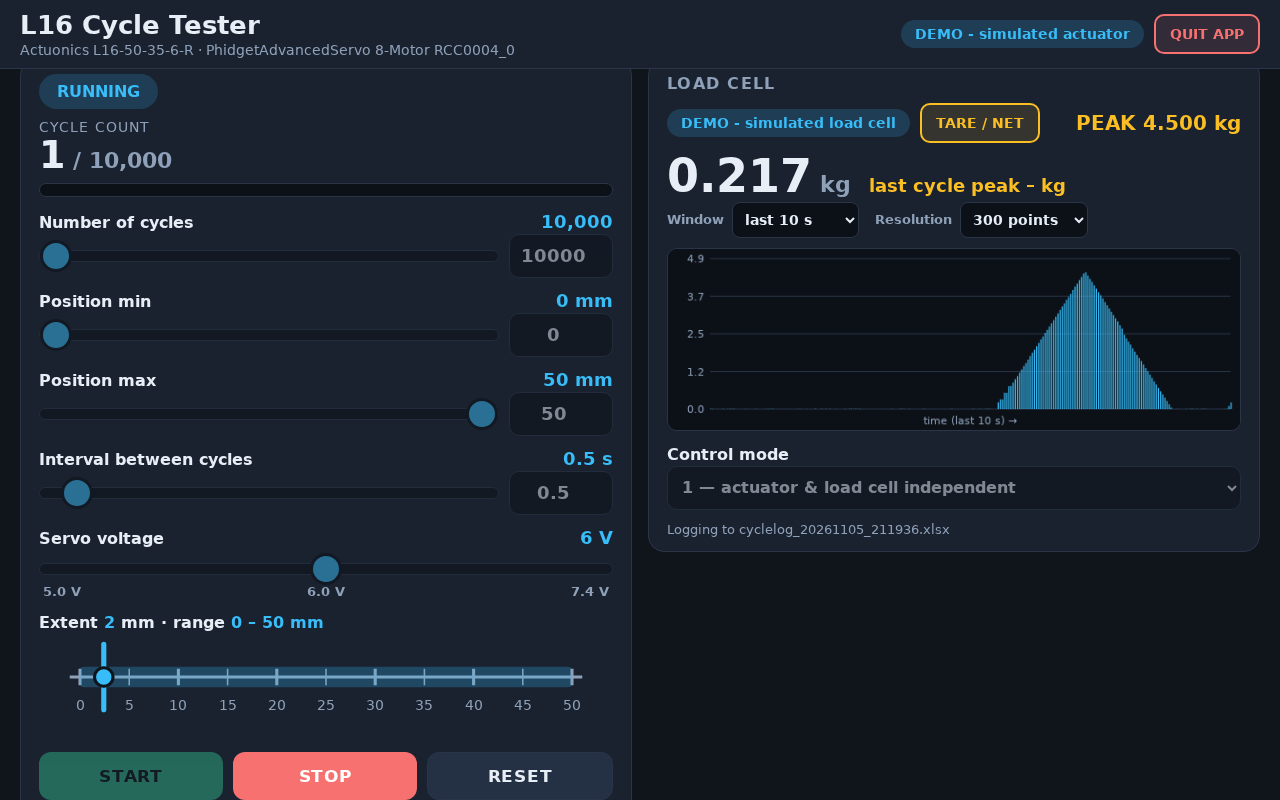
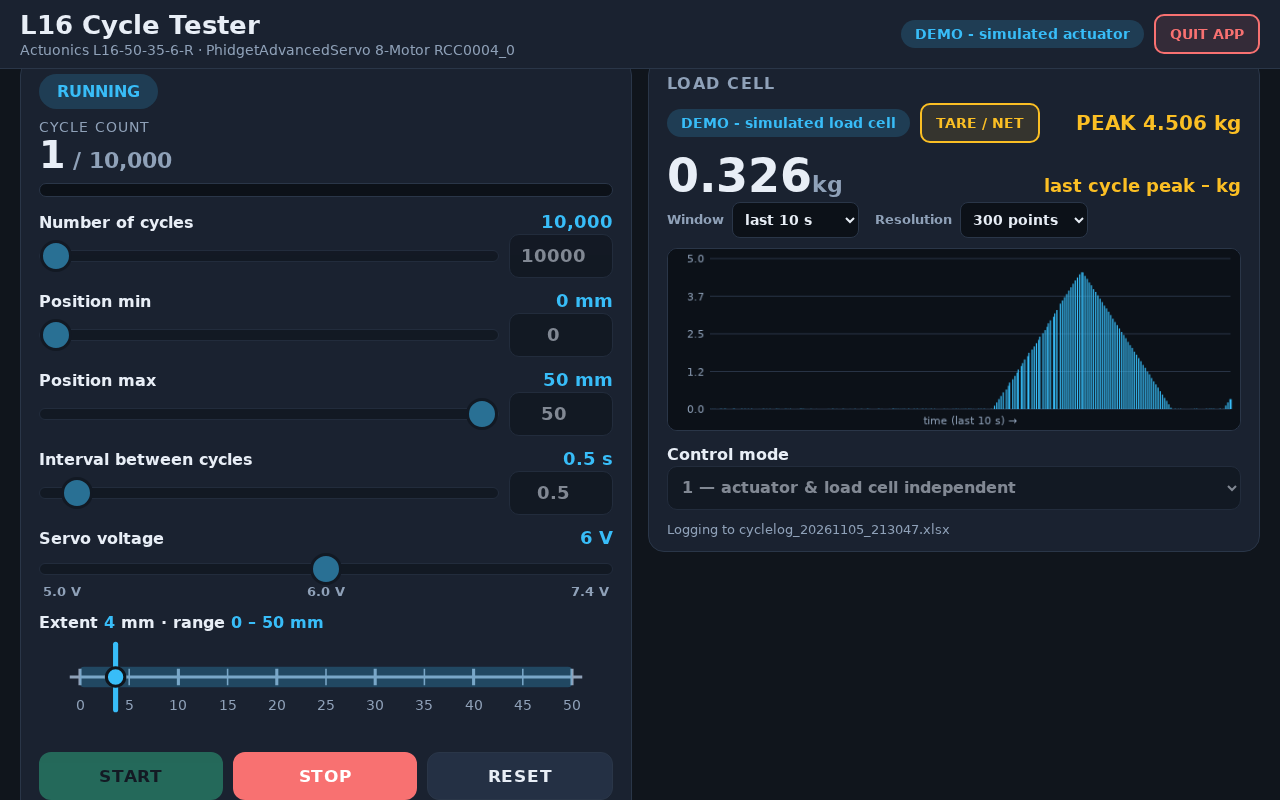
Closed-loop load control: halt mid-move when goal reached; DSCUSB polled ~100Hz with DP=6 and hardware PEAK tracking (RSPT reset at run start); last-cycle peak pinned to right edge of load row

diff --git a/static/style.css b/static/style.css
@@ -132,9 +132,9 @@ main {
   padding: 0 8px;
 }
 
-.load-value { font-size: 46px; font-weight: 800; font-variant-numeric: tabular-nums; line-height: 1.1; }
+.load-value { display: flex; align-items: baseline; font-size: 46px; font-weight: 800; font-variant-numeric: tabular-nums; line-height: 1.1; }
 .load-value .unit { font-size: 22px; color: var(--muted); font-weight: 600; }
-.prev-peak { margin-left: 18px; font-size: 18px; font-weight: 700; color: var(--warn); }
+.prev-peak { margin-left: auto; padding-left: 18px; font-size: 18px; font-weight: 700; color: var(--warn); white-space: nowrap; }
 .prev-peak span { font-variant-numeric: tabular-nums; }
 
 #load-chart { width: 100%; height: auto; display: block; background: #0c1118; border: 1px solid var(--panel-edge); border-radius: 10px; margin: 10px 0 14px; }

diff --git a/loadcell.py b/loadcell.py
@@ -5,8 +5,8 @@ from collections import deque
 
 READ_CMD = b"!001:SYS?\r"
 BAUD = 115200
-POLL_HZ = 50.0
-HIST_MAX = 90000
+POLL_HZ = 100.0
+HIST_MAX = 180000
 WINDOW_MAX_S = 1800.0
 POINTS_MAX = 1200
 
@@ -31,6 +31,12 @@ class LoadCellBase:
     def history_window(self, window_s=10.0, max_points=300):
         raise NotImplementedError
 
+    def reset_peak(self):
+        pass
+
+    def module_peak_kg(self):
+        return None
+
     def tare(self):
         raise NotImplementedError
 
@@ -43,6 +49,7 @@ class SimulatedLoadCell(LoadCellBase):
         self._lock = threading.Lock()
         self._gross = 0.0
         self._tare = 0.0
+        self._alltime_peak = 0.0
         self._hist = deque(maxlen=HIST_MAX)
         self._stop = threading.Event()
         self._thread = None
@@ -64,7 +71,10 @@ class SimulatedLoadCell(LoadCellBase):
             gross = max(0.0, 0.09 * pos) + random.uniform(-0.01, 0.01)
             with self._lock:
                 self._gross = gross
-                self._hist.append((time.monotonic(), gross - self._tare))
+                net = gross - self._tare
+                if net > self._alltime_peak:
+                    self._alltime_peak = net
+                self._hist.append((time.monotonic(), net))
             time.sleep(1.0 / POLL_HZ)
 
     def latest_kg(self):
@@ -85,6 +95,14 @@ class SimulatedLoadCell(LoadCellBase):
             self._tare = self._gross
         return True
 
+    def reset_peak(self):
+        with self._lock:
+            self._alltime_peak = self._gross - self._tare
+
+    def module_peak_kg(self):
+        with self._lock:
+            return self._alltime_peak
+
 
 class DscUsbLoadCell(LoadCellBase):
     def __init__(self, port=None):
@@ -93,9 +111,21 @@ class DscUsbLoadCell(LoadCellBase):
         self._lock = threading.Lock()
         self._gross = 0.0
         self._tare = 0.0
+        self._mod_peak = None
         self._hist = deque(maxlen=HIST_MAX)
         self._stop = threading.Event()
         self._thread = None
+
+    def _cmd(self, payload):
+        self._ser.reset_input_buffer()
+        self._ser.write(payload)
+        line = self._ser.read_until(b"\r", 64).strip()
+        if not line or line == b"?":
+            return None
+        try:
+            return float(line)
+        except ValueError:
+            return None
 
     def _probe(self, device):
         import serial
@@ -132,7 +162,11 @@ class DscUsbLoadCell(LoadCellBase):
                 "no DSCUSB found on any COM port - install the DSC Toolkit / FTDI drivers "
                 "(SW-DSCUSBDRV) so the DSCUSB appears as a virtual COM port, or pass --loadcell-port COMx"
             )
-        self._ser = serial.Serial(port, BAUD, timeout=0.2)
+        self._ser = serial.Serial(port, BAUD, timeout=0.05)
+        try:
+            self._cmd(b"!001:DP=6\r")
+        except Exception:
+            pass
         self._thread = threading.Thread(target=self._reader, daemon=True)
         self._thread.start()
         self.connected = True
@@ -150,19 +184,35 @@ class DscUsbLoadCell(LoadCellBase):
         self.connected = False
 
     def _reader(self):
+        tick = 0
         while not self._stop.is_set():
             try:
-                self._ser.reset_input_buffer()
-                self._ser.write(READ_CMD)
-                line = self._ser.read_until(b"\r", 64).strip()
-                if line and line != b"?":
-                    gross = float(line)
+                gross = self._cmd(READ_CMD)
+                if gross is not None:
+                    tick += 1
+                    if tick % 5 == 0:
+                        peak = self._cmd(b"!001:PEAK?\r")
+                        if peak is not None:
+                            with self._lock:
+                                self._mod_peak = peak - self._tare
                     with self._lock:
                         self._gross = gross
                         self._hist.append((time.monotonic(), gross - self._tare))
             except Exception:
-                time.sleep(0.1)
-            time.sleep(1.0 / POLL_HZ)
+                time.sleep(0.02)
+            time.sleep(0.005)
+
+    def reset_peak(self):
+        try:
+            self._cmd(b"!001:RSPT\r")
+        except Exception:
+            pass
+        with self._lock:
+            self._mod_peak = None
+
+    def module_peak_kg(self):
+        with self._lock:
+            return self._mod_peak
 
     def latest_kg(self):
         with self._lock:

diff --git a/actuator.py b/actuator.py
@@ -31,6 +31,12 @@ class ActuatorBase:
     def move_to_mm(self, mm, timeout_s=60.0, cancel_evt=None):
         raise NotImplementedError
 
+    def set_target_mm(self, mm):
+        raise NotImplementedError
+
+    def halt(self):
+        raise NotImplementedError
+
     @property
     def position_mm(self):
         raise NotImplementedError
@@ -85,9 +91,16 @@ class SimulatedActuator(ActuatorBase):
         with self._lock:
             return self._voltage
 
-    def move_to_mm(self, mm, timeout_s=60.0, cancel_evt=None):
+    def set_target_mm(self, mm):
         with self._lock:
             self._target = max(0.0, min(STROKE_MM, float(mm)))
+
+    def halt(self):
+        with self._lock:
+            self._target = self._pos
+
+    def move_to_mm(self, mm, timeout_s=60.0, cancel_evt=None):
+        self.set_target_mm(mm)
         deadline = time.monotonic() + timeout_s
         while time.monotonic() < deadline:
             if cancel_evt is not None and cancel_evt.is_set():
@@ -237,6 +250,17 @@ class PhidgetActuator(ActuatorBase):
 
     def get_voltage(self):
         return self._voltage
+
+    def set_target_mm(self, mm):
+        with self._lock:
+            self._dev.setTargetPosition(self._mm_to_position(mm))
+
+    def halt(self):
+        try:
+            with self._lock:
+                self._dev.setTargetPosition(float(self._dev.getPosition()))
+        except Exception:
+            pass
 
     def move_to_mm(self, mm, timeout_s=60.0, cancel_evt=None):
         with self._lock:

diff --git a/engine.py b/engine.py
@@ -144,6 +144,11 @@ class CycleEngine:
             self._fail_prev_peak = None
             self._run_peak = 0.0
             self._fail_evt.clear()
+            if self.loadcell is not None:
+                try:
+                    self.loadcell.reset_peak()
+                except Exception:
+                    pass
             self.status = STATUS_RUNNING
             self._stop_evt.clear()
             if self.recorder is not None:
@@ -241,8 +246,20 @@ class CycleEngine:
                 step = 1.0 if remaining > 0.5 else (0.5 if remaining > 0.2 else 0.1)
             else:
                 step = 1.0
-            pos = min(cap, pos + step)
-            self.actuator.move_to_mm(pos, timeout_s=30, cancel_evt=self._stop_evt)
+            target = min(cap, pos + step)
+            self.actuator.set_target_mm(target)
+            while not self._stop_evt.is_set() and not self._fail_evt.is_set():
+                load = self._load()
+                if load is not None:
+                    if load > self._cycle_peak:
+                        self._cycle_peak = load
+                    if load >= target_load:
+                        self.actuator.halt()
+                        return self.actuator.position_mm
+                if self.actuator.position_mm >= target - 0.05:
+                    break
+                time.sleep(0.01)
+            pos = self.actuator.position_mm
         return pos
 
     def _run(self):

diff --git a/server.py b/server.py
@@ -164,13 +164,19 @@ class App:
         lc = self.loadcell
         hist = lc.history_window(win_s, max_points) if lc.connected else []
         hist_peak = max((v for _, v in hist), default=0.0)
+        mod_peak = 0.0
+        if lc.connected:
+            try:
+                mod_peak = lc.module_peak_kg() or 0.0
+            except Exception:
+                mod_peak = 0.0
         kg_now = round(lc.latest_kg(), 3) if lc.connected else None
         snap["load"] = {
             "connected": lc.connected,
             "error": lc.error,
             "name": lc.name,
             "kg": kg_now,
-            "peak_kg": round(max(snap.get("run_peak_kg", 0.0), hist_peak, kg_now or 0.0), 3),
+            "peak_kg": round(max(snap.get("run_peak_kg", 0.0), hist_peak, mod_peak, kg_now or 0.0), 3),
             "prev_cycle_peak_kg": snap.get("prev_cycle_peak_kg"),
             "history": hist,
         }
